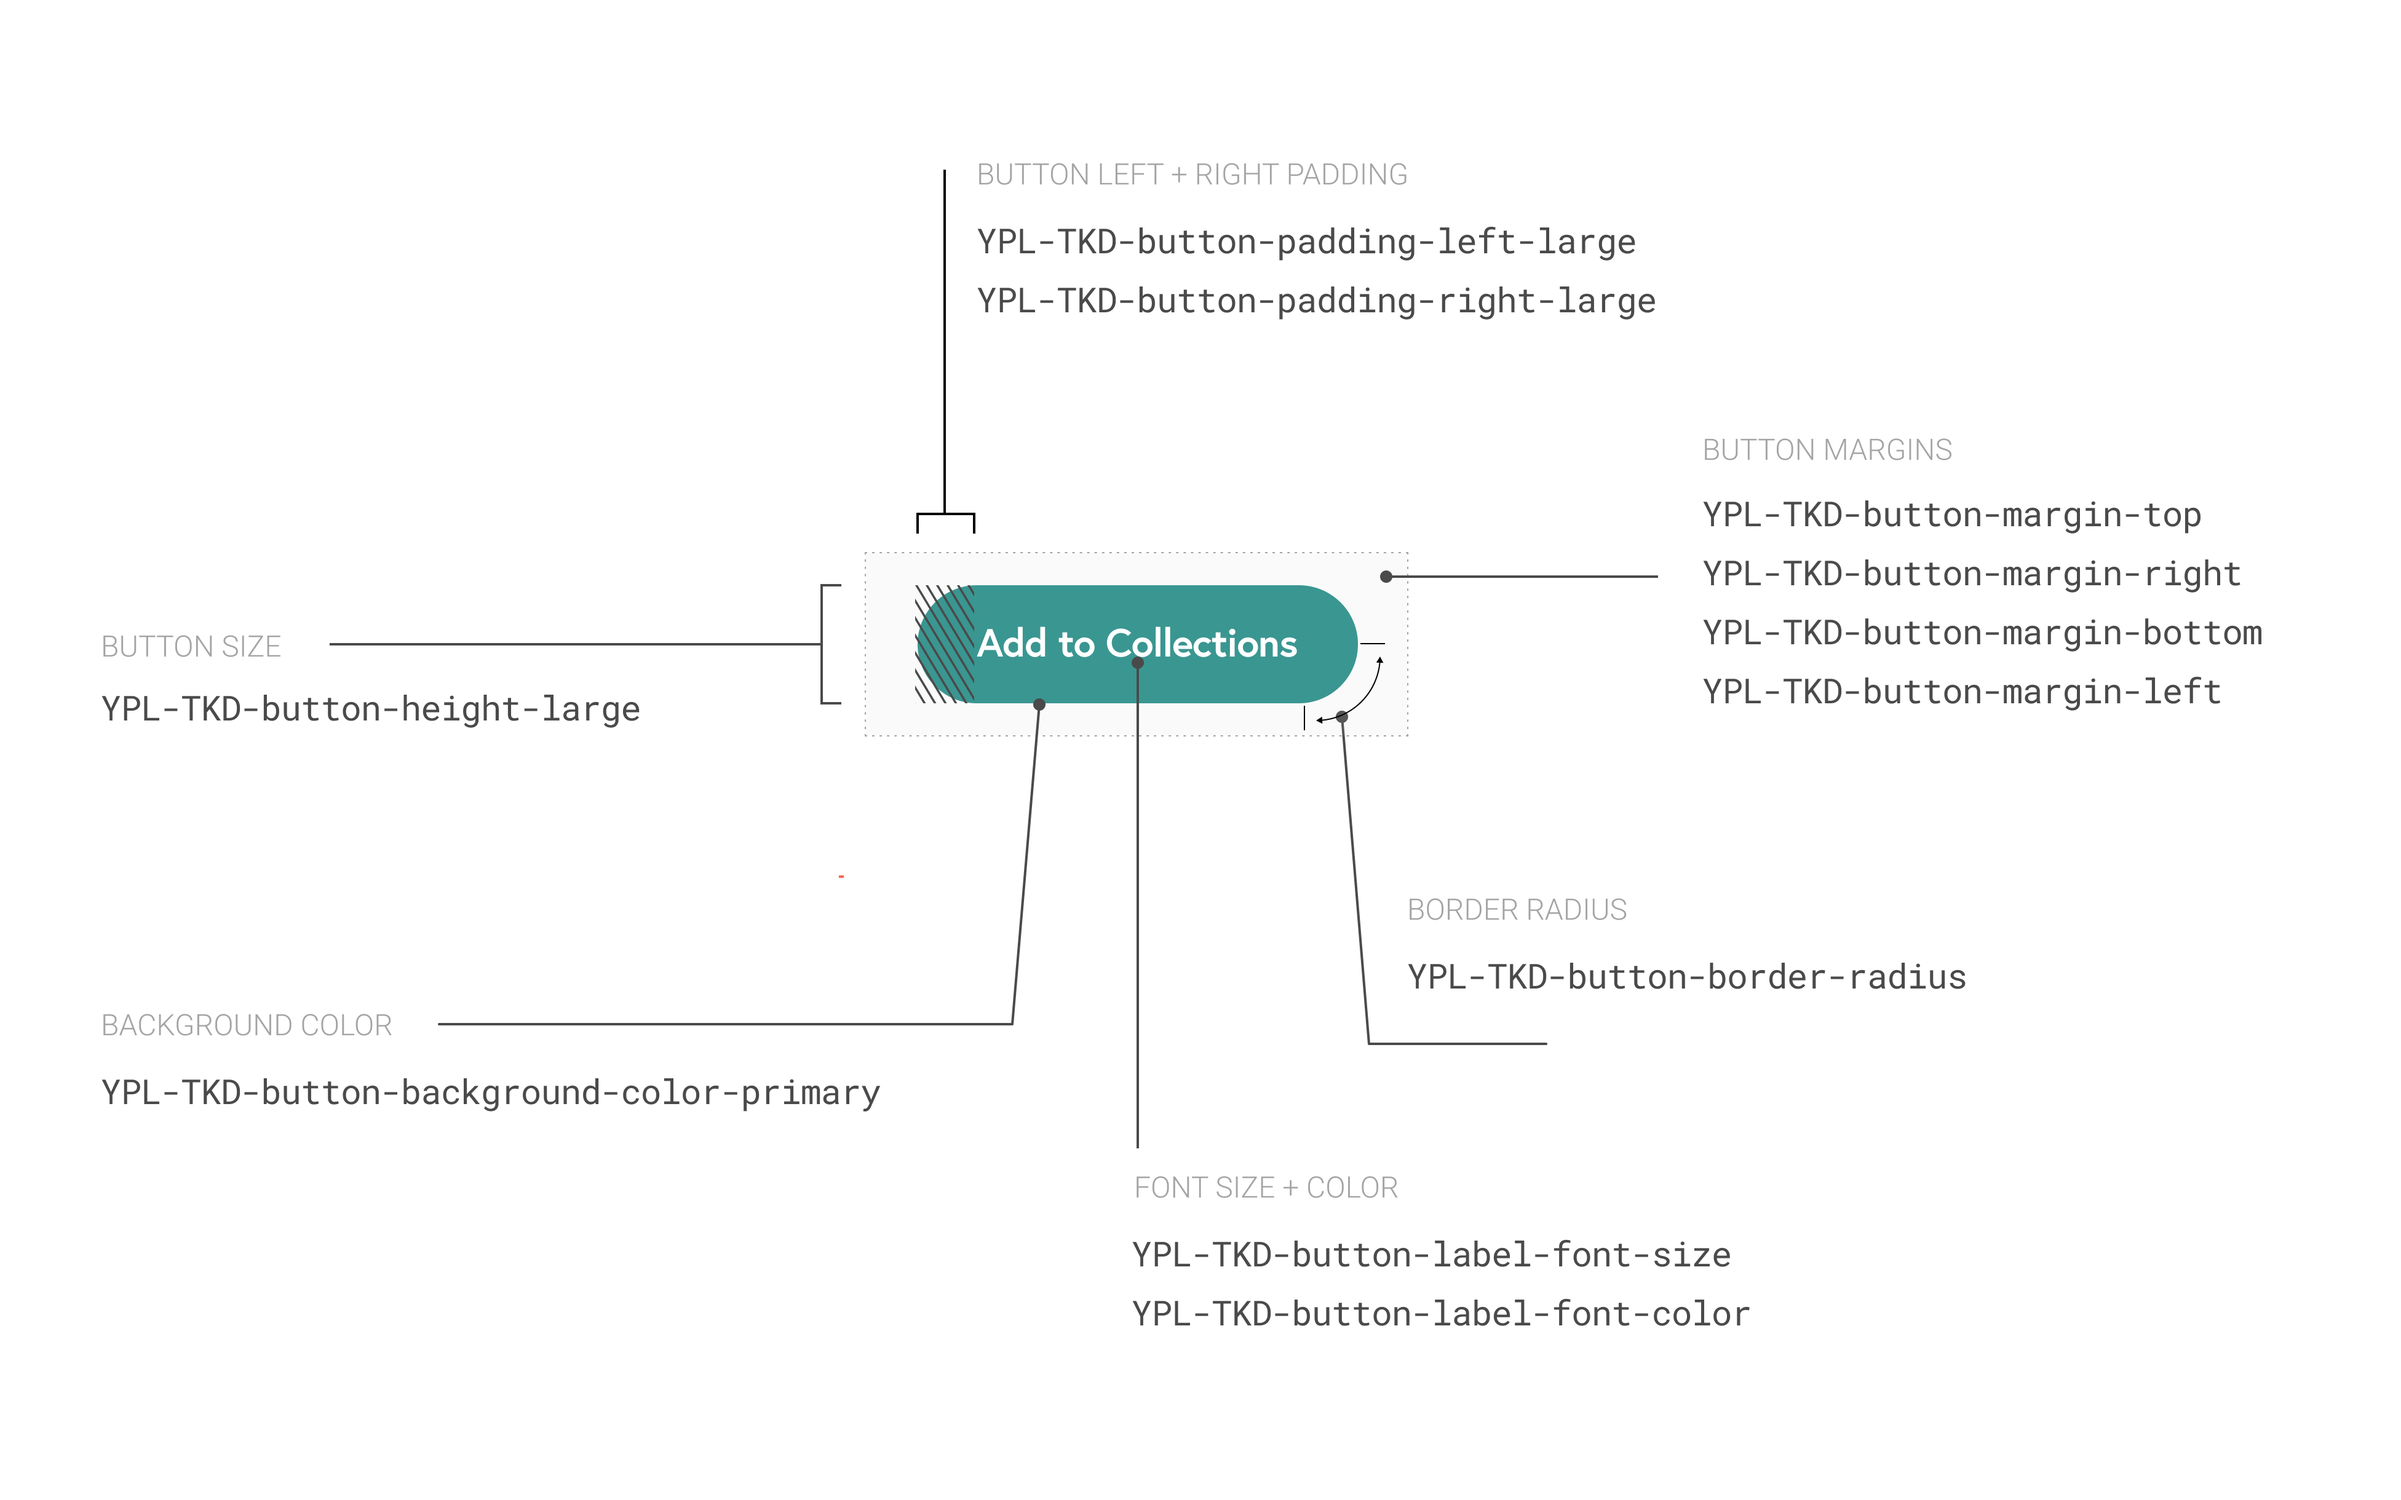
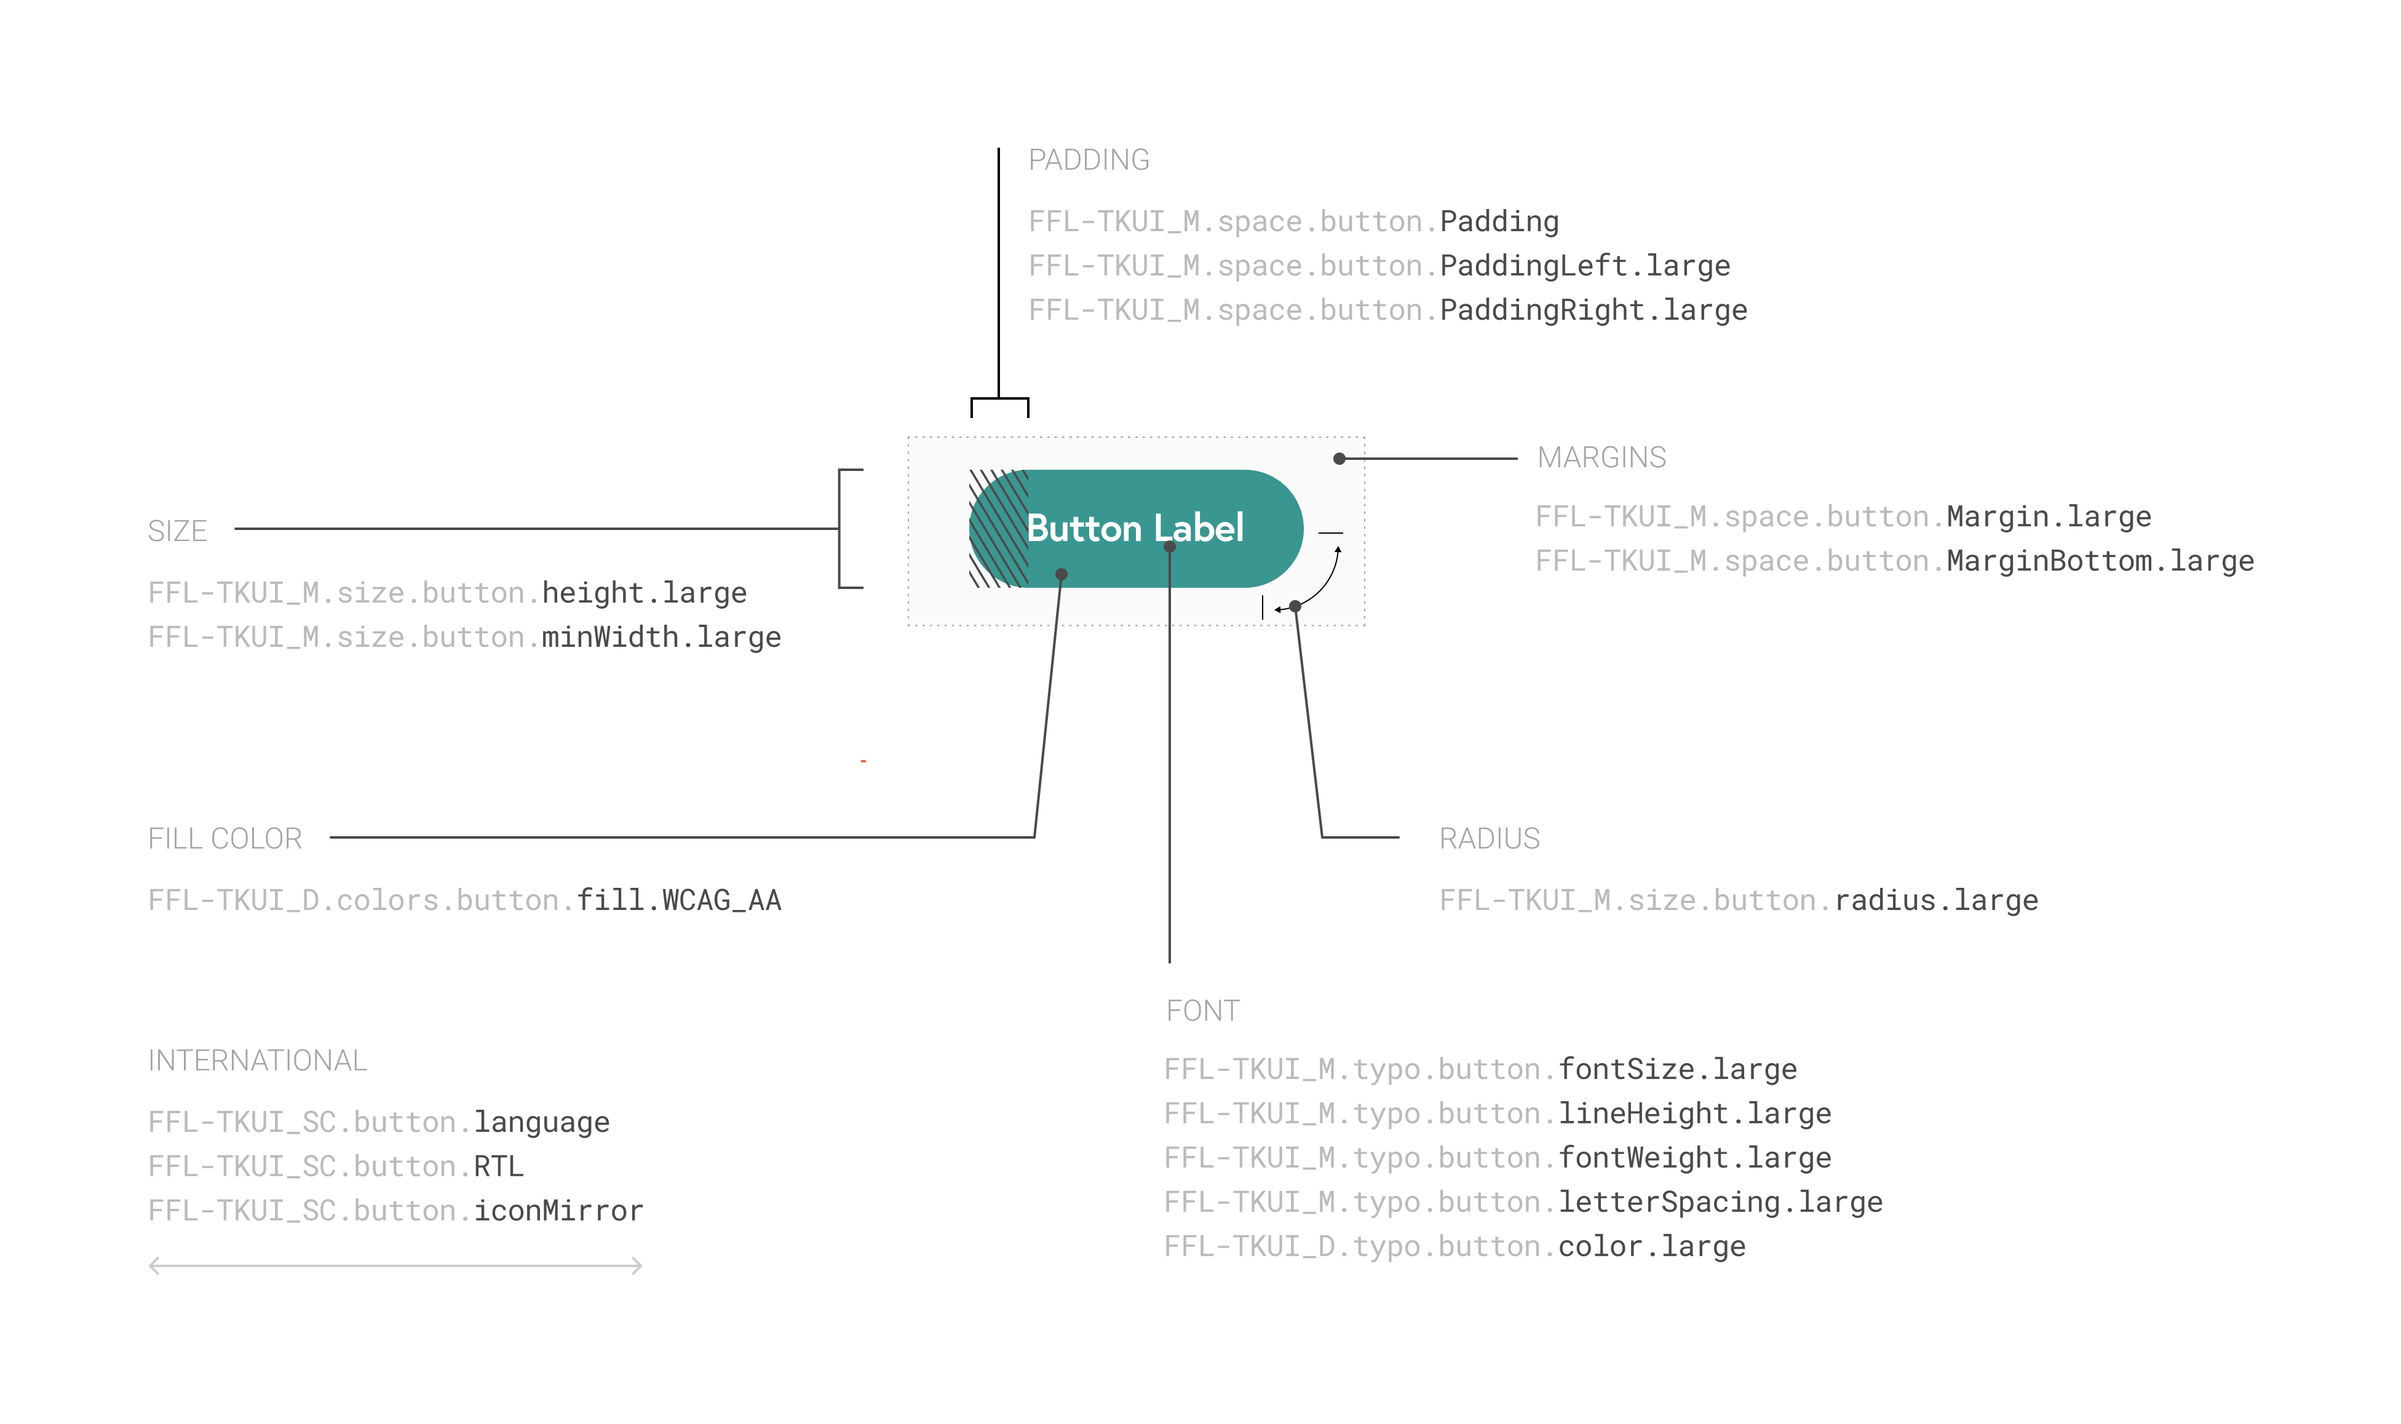
Little Tweaks

diff --git a/docs/_sass/custom/custom.scss b/docs/_sass/custom/custom.scss
@@ -970,8 +970,8 @@ p + .dd-dont {
   text-transform: uppercase;
 }
 
-
 .colorLabel {
+  // display: none;
   text-align: center;
   color: #666;
 }

diff --git a/docs/core/100-farfalle/070-Components/100-Components-Button.md b/docs/core/100-farfalle/070-Components/100-Components-Button.md
@@ -46,15 +46,17 @@ We want to calculate our buttons size (height) as function of their text/label s
 {: .no_toc}
 
 ```
+FFL-TKUI_SC.button.language
+FFL-TKUI_SC.button.RTL
+FFL-TKUI_SC.button.iconMirror
+
 TKSC.font.size.base
 ```
 
 ### Choices `TKUI_C`
 {: .no_toc}
 ```
-TKC.cyan~teal.400.hue
-TKC.cyan~teal.400.saturation
-TKC.cyan~teal.400.lightness
+N/A
 ```
 
 ### Math `TKUI_M`
@@ -62,30 +64,43 @@ TKC.cyan~teal.400.lightness
 
 
 ```json
-TKM.font.size.h3: TKM.font.size.hx = round($TKSC.font.size.base * $TKSC.font.size.scale ^ (4-x))
+FFL-TKUI_M.size.button.height.large
+FFL-TKUI_M.size.button.minWidth.large
+//
+FFL-TKUI_M.typo.button.fontSize.large
+FFL-TKUI_M.typo.button.lineHeight.large
+FFL-TKUI_M.typo.button.fontWeight.large
+FFL-TKUI_M.typo.button.letterSpacing.large
+//
+FFL-TKUI_M.size.button.radius.large
+//
+FFL-TKUI_M.space.button.Padding
+FFL-TKUI_M.space.button.PaddingLeft.large
+FFL-TKUI_M.space.button.PaddingRight.large
+//
+FFL-TKUI_M.space.button.Margin.large
+FFL-TKUI_M.space.button.MarginBottom.large
 ```
 
 ### Decisions `TKUI_D`
 {: .no_toc}
 
 ```json
-// SIZE
-YPL.TKD.button.height.large
-// COLOR
-YPL.TKD.button.background.color.primary
-// LABEL
-YPL.TKD.button.label.font.size
-YPL.TKD.button.label.font.color
-// PADDING
-YPL.TKD.button.padding.left.large
-YPL.TKD.button.padding.right.large
-// MARGIN
-YPL.TKD.button.margin.top
-YPL.TKD.button.margin.right
-YPL.TKD.button.margin.bottom
-YPL.TKD.button.margin.left
-// RADIUS
-YPL.TKD.button.border.radius
+FFL-TKUI_D.colors.button.fill.WCAG_AA
 ```
 
-## Criteria
+
+## Checklist
+
+Please comply with checklist nelow ot add new component to pasta:
+
+|  |  |
+| --- | --- |
+| <input type="checkbox" class="checklistItem" checked> **All interactive states**<br>Includes all interactive states that are applicable (hover, down, focus, keyboard focus, disabled).|<input type="checkbox" class="checklistItem">   **Usage guidelines**<br>Includes a list of dos and don'ts that highlight best practices and common mistakes.|
+<input type="checkbox" class="checklistItem"> **All color themes**<br>Works properly across all four color themes (lightest, light, dark, darkest).| <input type="checkbox" class="checklistItem" checked> **All platform scales**<br>Includes a desktop scale (UWP, macOS, web desktop) and a mobile scale (iOS, Android, web mobile).|
+| <input type="checkbox" class="checklistItem" checked> **Accessible use of color**<br>Color is not used as the only visual means of conveying information (WCAG 2.0 1.4.1).|<input type="checkbox" class="checklistItem"> **Internationalization guidelines**<br>Works properly across various locales and includes guidelines for bi-directionality (RTL).|
+| <input type="checkbox" class="checklistItem" checked> **Accessible contrast for text**<br>Text has a contrast ratio of at least 4.5:1 for small text and at least 3:1 for large text (WCAG 2.0 1.4.3).| <input type="checkbox" class="checklistItem" checked> **Keyboard interactions**<br>Follows WCAG 2.0 standards for keyboard accessibility guidelines and includes a description of the keyboard interactions.|
+| <input type="checkbox" class="checklistItem" checked> **Accessible contrast for UI components**<br>Visual information required to identify components and states (except inactive components) has a contrast ratio of at least [3:1 (WCAG 2.1 1.4.11)](https://spectrum.adobe.com/page/action-button/#Design-checklist).| <input type="checkbox" class="checklistItem" checked> **Design tokens**<br>All design attributes (color, typography, layout, animation, etc.) are available as design tokens.|
+|<input type="checkbox" class="checklistItem"> **Content design**<br>UI language and information design considerations have been incorporated into component design.|<input type="checkbox" class="checklistItem"> **UI kit**<br>Includes a downloadable XD file that shows multiple options, states, color themes, and platform scales.|
+| <input type="checkbox" class="checklistItem" checked>  **Defined options**<br>Includes relevant options (variant, style, size, orientation, optional iconography, decorations, selection, error state, etc.)|<input type="checkbox" class="checklistItem"> **Generated UI kit**<br>Includes a link to Figma , generated by code using design tokens defined in Spectrum DNA, and shows multiple options, states, color themes, and platform scales.|
+| <input type="checkbox" class="checklistItem" checked>  **Defined behaviors**<br>Includes guidelines for keyboard focus, layout (wrapping, truncation, overflow), animation, interactions, etc.| <input type="checkbox" class="checklistItem" checked>  **Writing guidelines**<br>Includes content standards or usage guidelines for how to write or format in-product content for the component.|

diff --git a/docs/core/020-Foundations.md b/docs/core/020-Foundations.md
@@ -38,23 +38,18 @@ nav_order: 20
   </div>
 </section>
 
-
+<!--
 ## Principles
 
 ### Accessible
 {: .no_toc}
 
-{: .no_toc}
-
 ### Definite
 {: .no_toc}
 
-{: .no_toc}
-
 ### Transferable
-{: .no_toc}
+{: .no_toc} -->
 
-{: .no_toc}
 
 ## Taxonomy
 
@@ -418,28 +413,50 @@ YPL.FFL.TKUI_D.button.border.color.MD_dark.hero.CTA.hi: #333;
 ![WIP]({{site.baseurl}}/assets/images/YPL-DOC-colors-030-TokenNaming.png)
 
 
-### Infering color index
+### WCAG and pasta color index
 {: .no_toc}
 
 
-#### Luminance Index
+#### Pasta Luminance Index
 {: .no_toc}
 
-{: .no_toc}
-
-![WIP]({{site.baseurl}}/assets/images/YPL-DOC-colors-010-shadesIndex.png)
-
-Calculating relative Luminance:
+Calculating a RGB color relative Luminance (Y):
 
 ```js
 Y = 0.2126 * R + 0.7152 * G + 0.0722 * B
 ```
+
+![WIP]({{site.baseurl}}/assets/images/YPL-DOC-colors-010-shadesIndex.png)
+
+#### WCAG 1.4.3 Criteria:
+{: .no_toc}
+
+
+Caculating 2 colors relative Contrast (C):
+
+```js
+C = (YB + 0.05) / (YD + 0.05)
+```
+YB is the luminance of the Brightest color.<br>
+YD is the luminance of the Darkest color.<br>
+Aka, `YB ≧ YD`.
+
+
+| Application | Level | Contrast Criterion|
+| --- | --- | --- |
+|Text ≧ 18pt|AA|3:1|
+|Text Bold ≧ 14pt|AA|3:1|
+|Text < 18pt|AA|4.5:1|
+|Text |AAA|7:1|
+
+
 Ressources:
 
 - [Wikipedia](https://contrastchecker.online/color-relative-luminance-calculator)
 - [online calculator](https://contrastchecker.online/color-relative-luminance-calculator)
 - [How to Assess Luminance and Contrast · article](https://www.myndex.com/WEB/LuminanceContrast)
 - [Figma LCH Color Picker](https://www.figma.com/community/plugin/969496279507778512/LCH)
+
 
 
 #### Index convention

diff --git a/docs/core/100-farfalle/040-Tokens/020-Tokens-Colors.md b/docs/core/100-farfalle/040-Tokens/020-Tokens-Colors.md
@@ -20,9 +20,7 @@ nav_order: 20
 
 
 
-
 ## Super Choices
-
 
 <div class="colorSystem" data-tokenPrefix="TKUI_SC.">
 
@@ -99,22 +97,12 @@ nav_order: 20
   </div>
   <!-- End Backgrounds -->
 
-
 <!-- Colors -->
-
 {% include pasta-color-structure.html color-name="primary" color-hex-value="#3B9792" %}
-
 {% include pasta-color-structure.html color-name="secondary" color-hex-value="#E05F1F" %}
 
 
 </div>
-
-
-
-
-
-
-
 
 ## Main Colors
 
